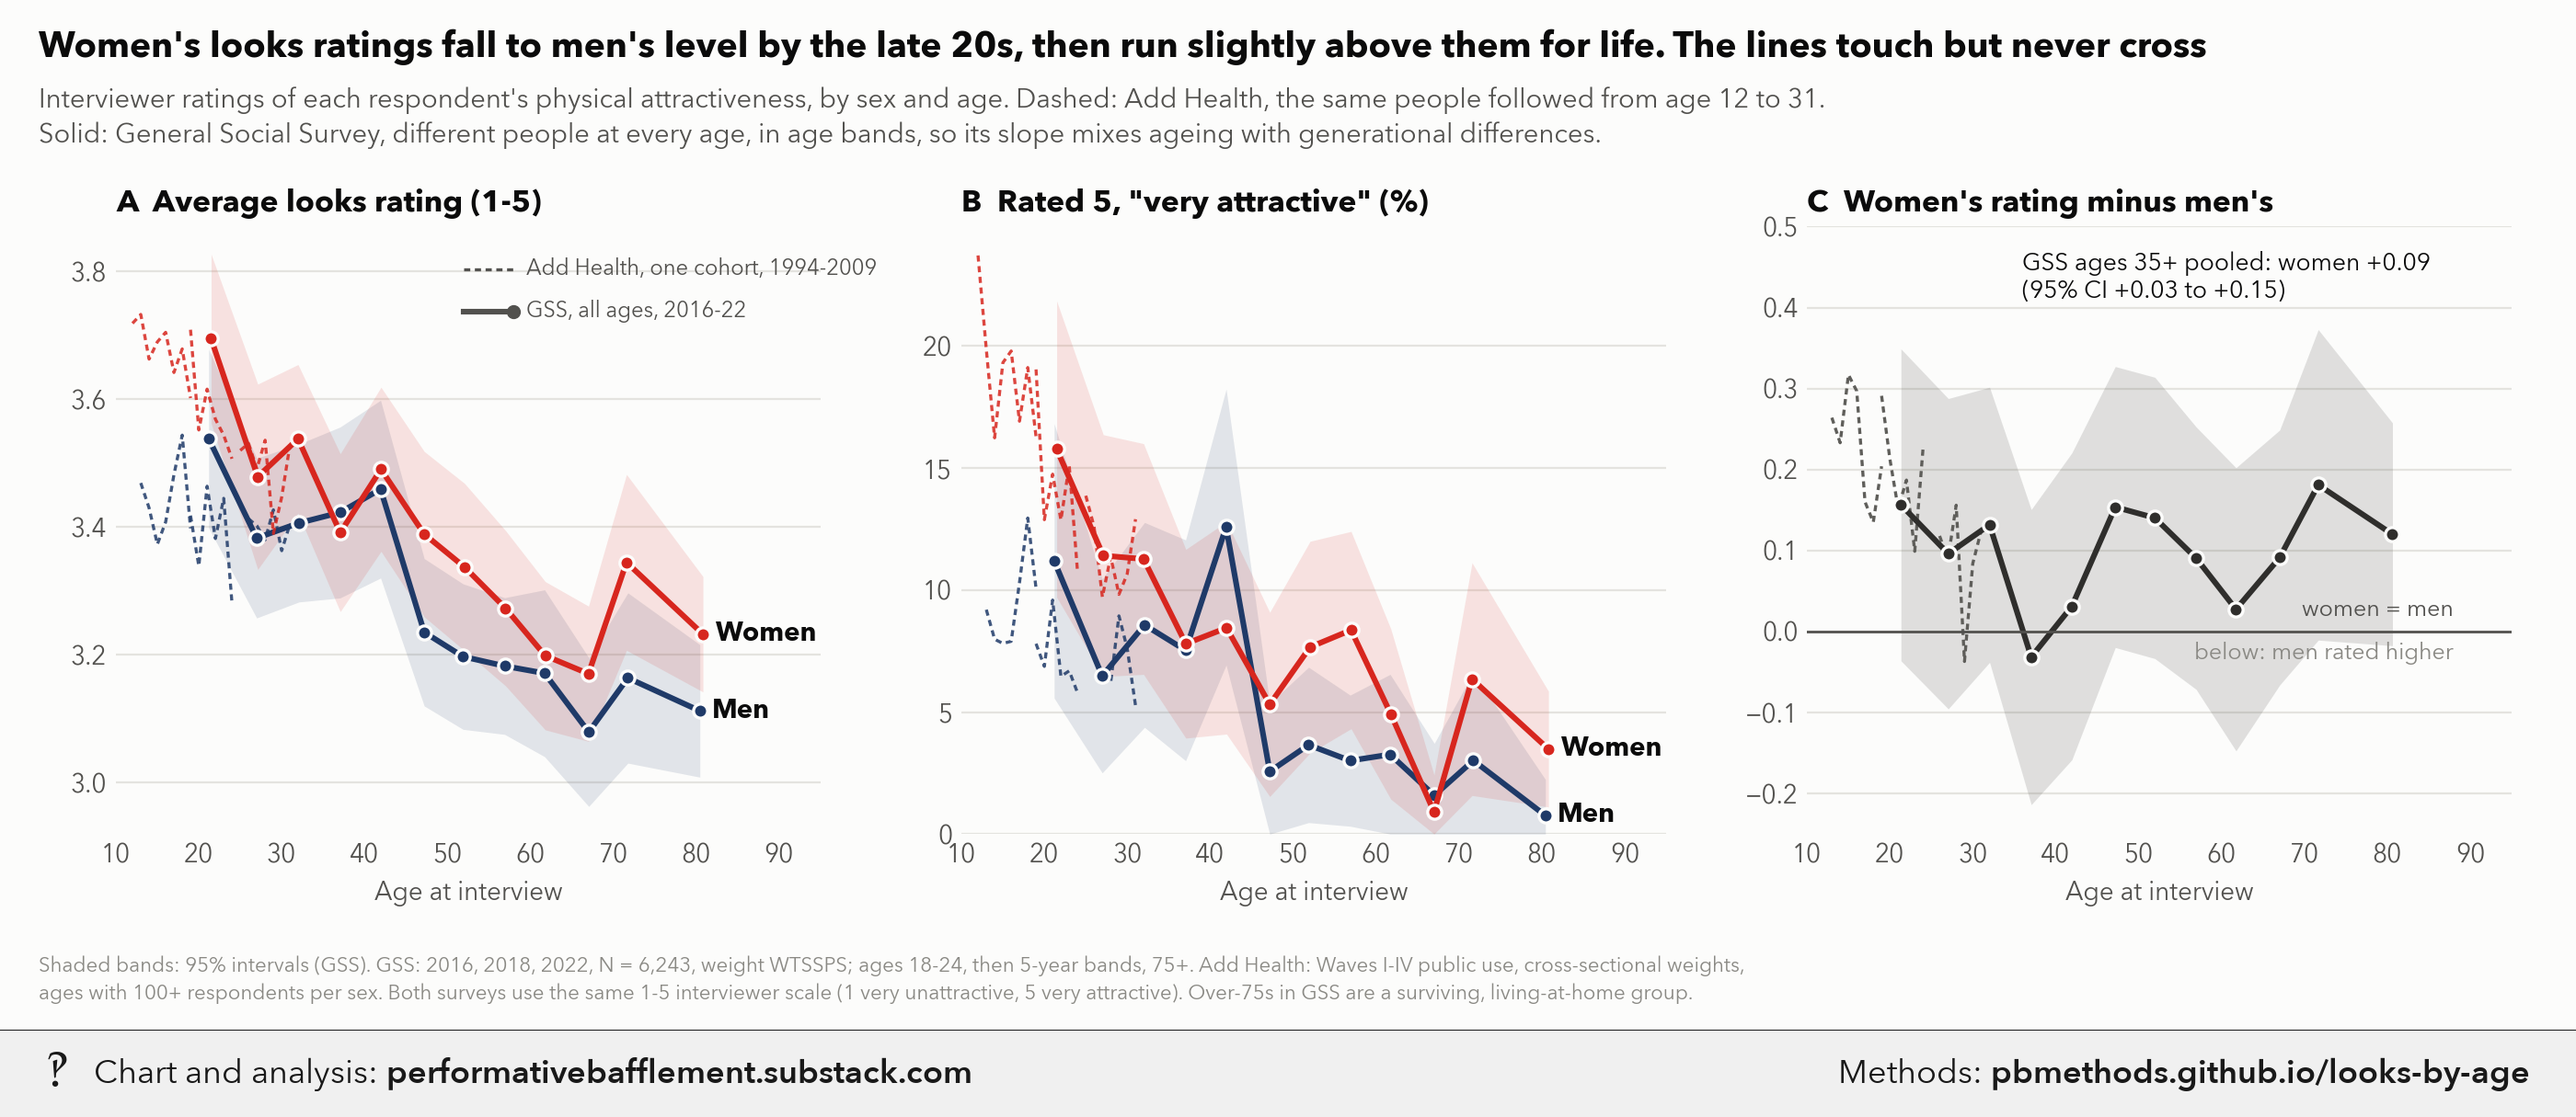
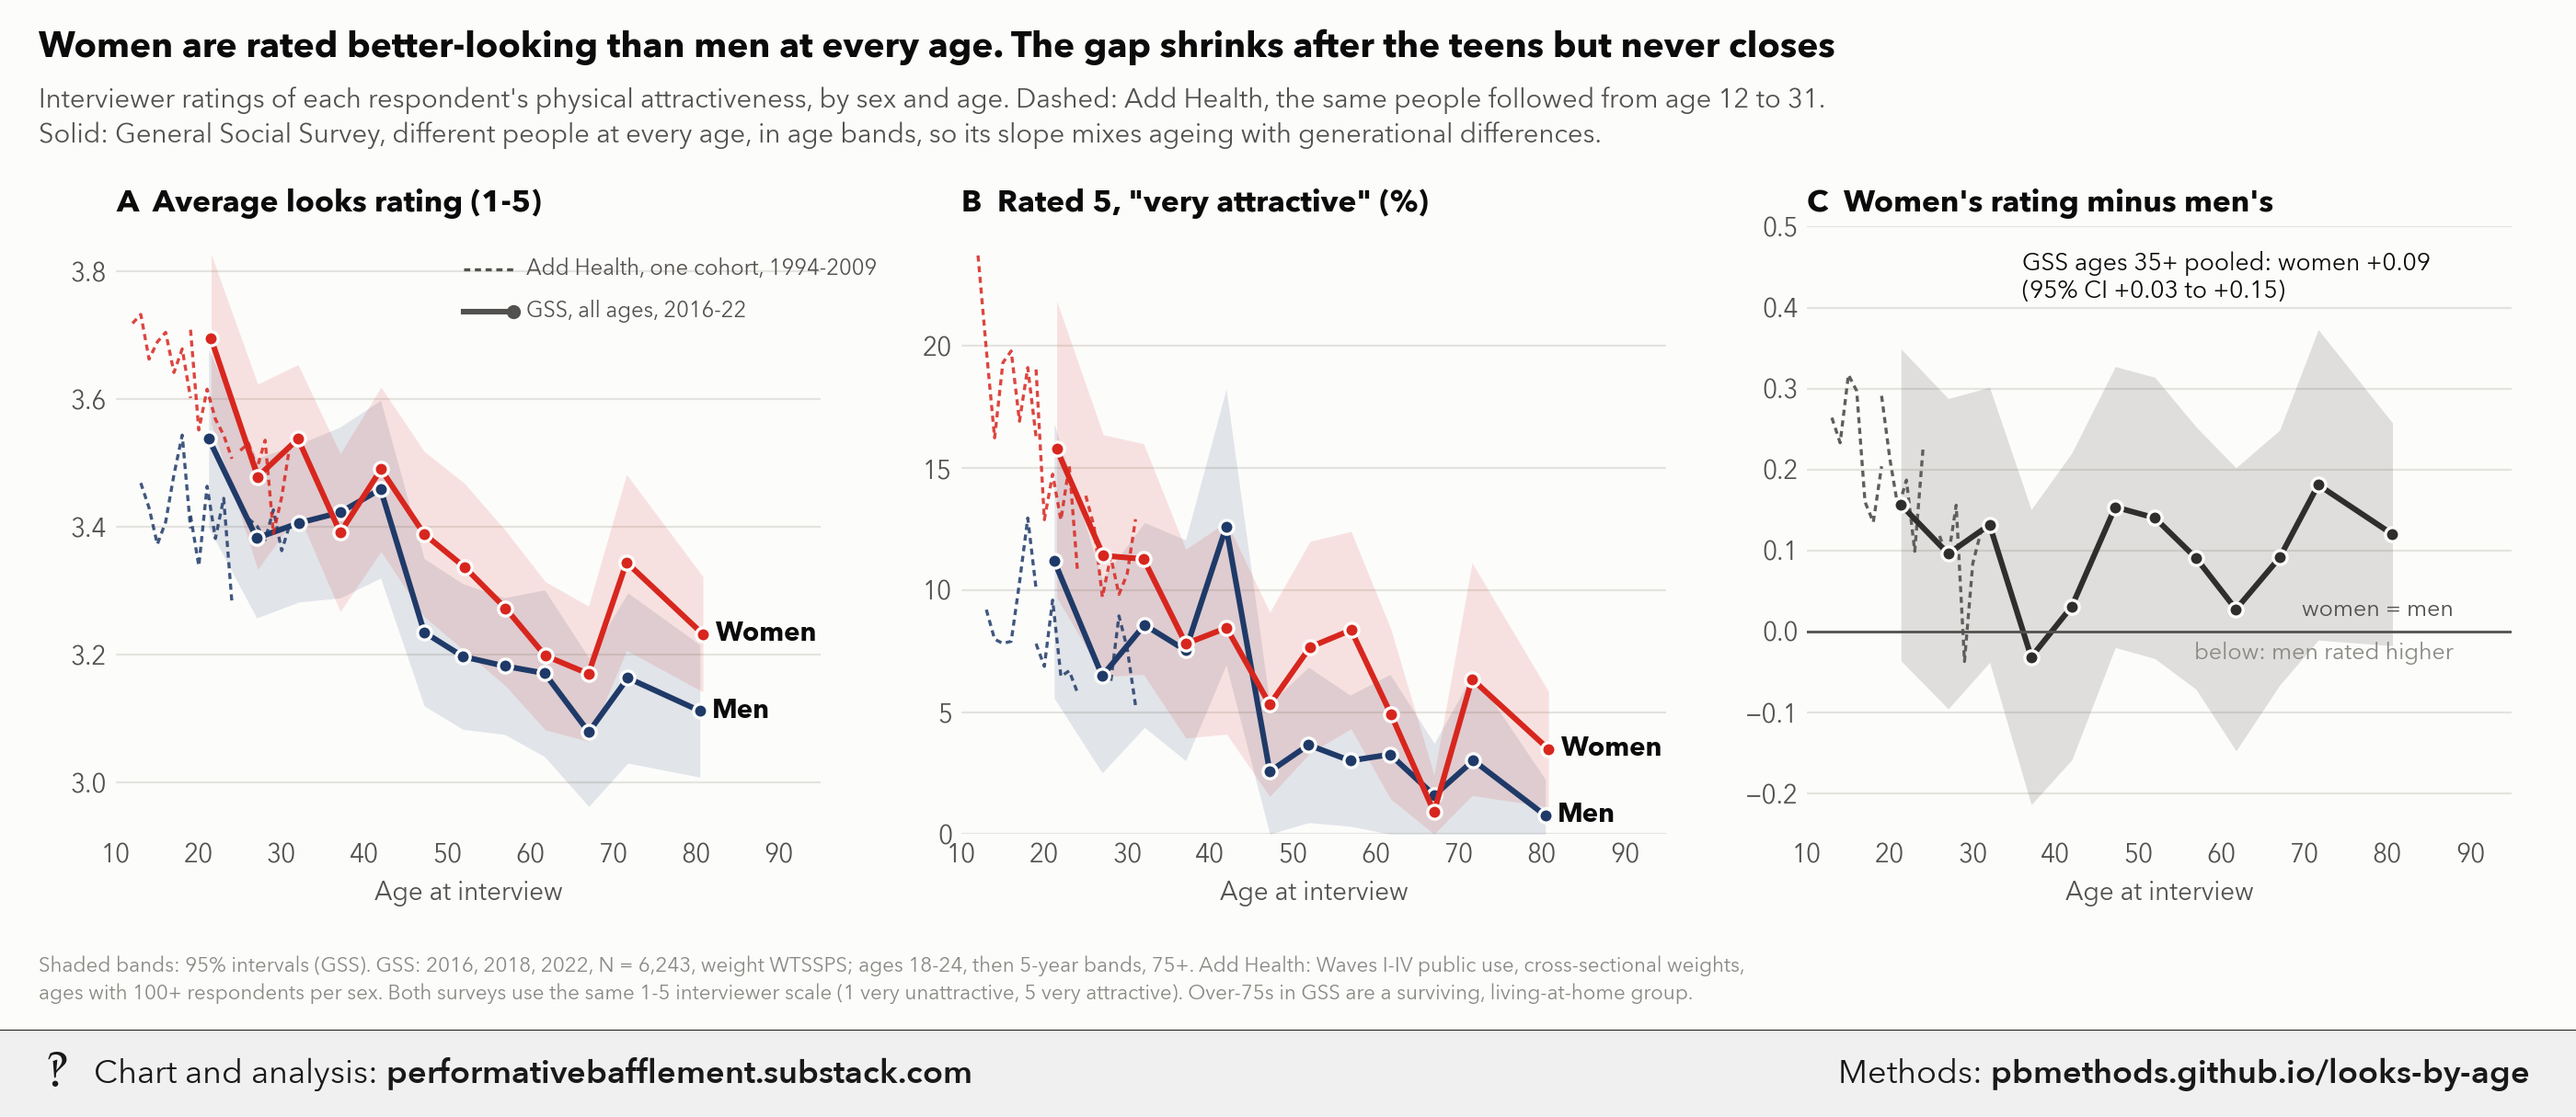
Update looks-by-age

Changed region(s): [[0.0621, 0.0305, 0.87, 0.0609]]

diff --git a/looks-by-age/index.html b/looks-by-age/index.html
@@ -1718,8 +1718,8 @@ def chart(ah, gs, g35):
     ax.text(59.5, y0 + 0.86 * yr, &quot;GSS, all ages, 2016-22&quot;, va=&quot;center&quot;, fontsize=8.5, color=pb.INK2)
 
     fig.subplots_adjust(left=0.045, right=0.975, top=0.78, bottom=0.19, wspace=0.2)
-    fig.text(0.015, 0.945, &quot;Women's looks ratings fall to men's level by the late 20s, then run slightly above &quot;
-             &quot;them for life. The lines touch but never cross&quot;,
+    fig.text(0.015, 0.945, &quot;Women are rated better-looking than men at every age. The gap shrinks after the &quot;
+             &quot;teens but never closes&quot;,
              fontsize=14, fontweight=&quot;bold&quot;, color=pb.INK, ha=&quot;left&quot;)
     fig.text(0.015, 0.855, &quot;Interviewer ratings of each respondent's physical attractiveness, by sex and age. Dashed: &quot;
              &quot;Add Health, the same people followed from age 12 to 31.\nSolid: General Social Survey, different people &quot;

diff --git a/looks-by-age/methods.md b/looks-by-age/methods.md
@@ -526,8 +526,8 @@ def chart(ah, gs, g35):
     ax.text(59.5, y0 + 0.86 * yr, "GSS, all ages, 2016-22", va="center", fontsize=8.5, color=pb.INK2)
 
     fig.subplots_adjust(left=0.045, right=0.975, top=0.78, bottom=0.19, wspace=0.2)
-    fig.text(0.015, 0.945, "Women's looks ratings fall to men's level by the late 20s, then run slightly above "
-             "them for life. The lines touch but never cross",
+    fig.text(0.015, 0.945, "Women are rated better-looking than men at every age. The gap shrinks after the "
+             "teens but never closes",
              fontsize=14, fontweight="bold", color=pb.INK, ha="left")
     fig.text(0.015, 0.855, "Interviewer ratings of each respondent's physical attractiveness, by sex and age. Dashed: "
              "Add Health, the same people followed from age 12 to 31.\nSolid: General Social Survey, different people "
